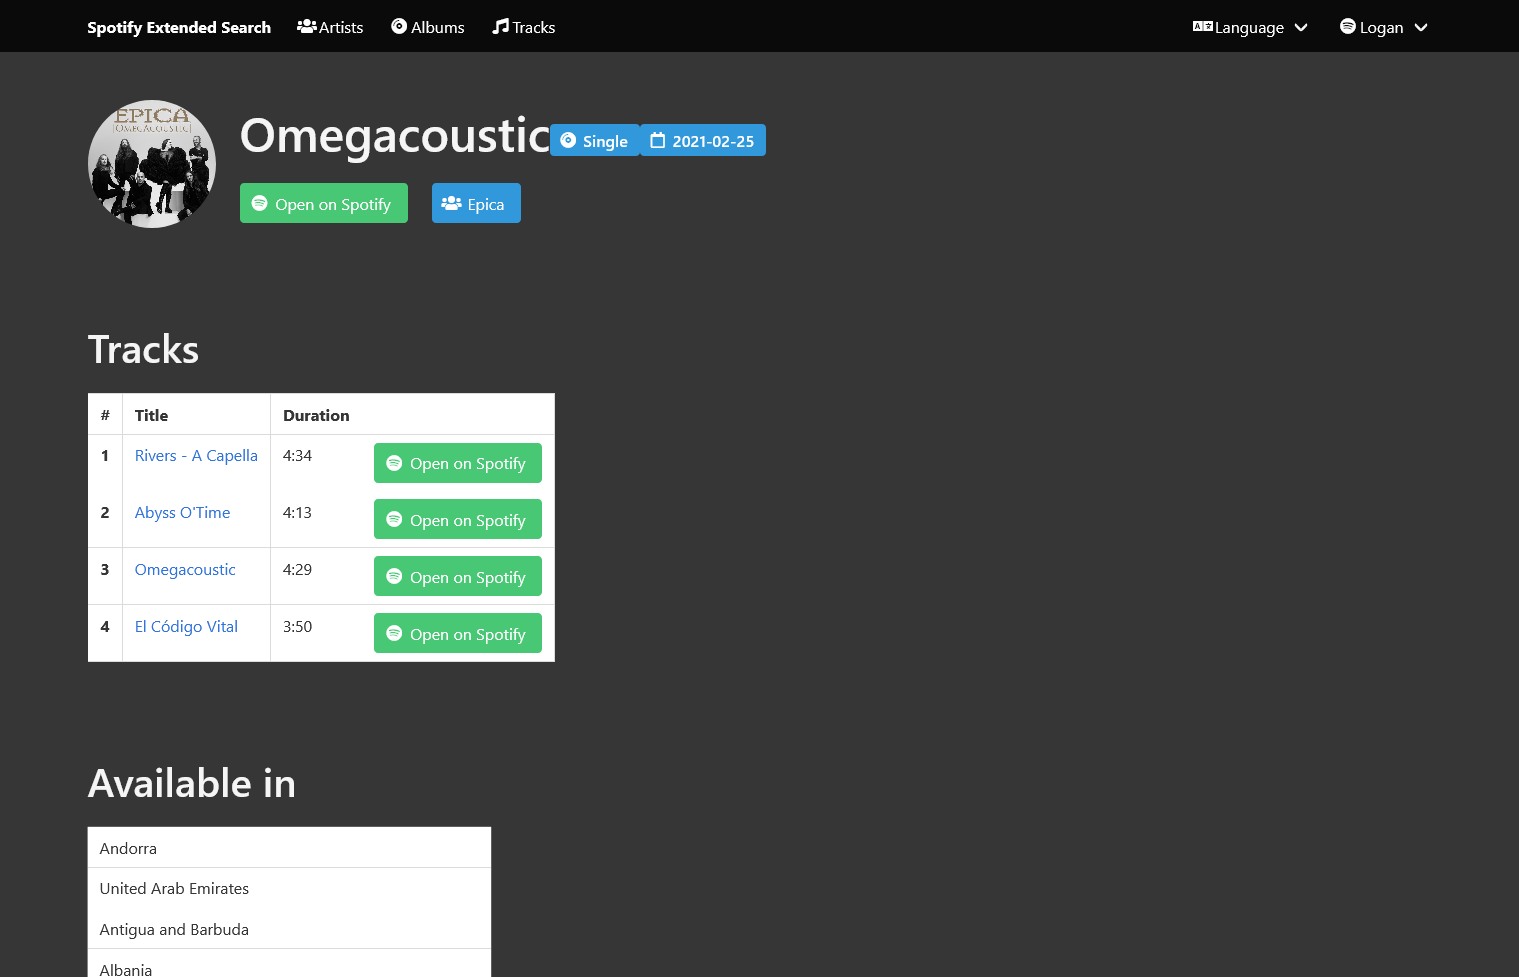
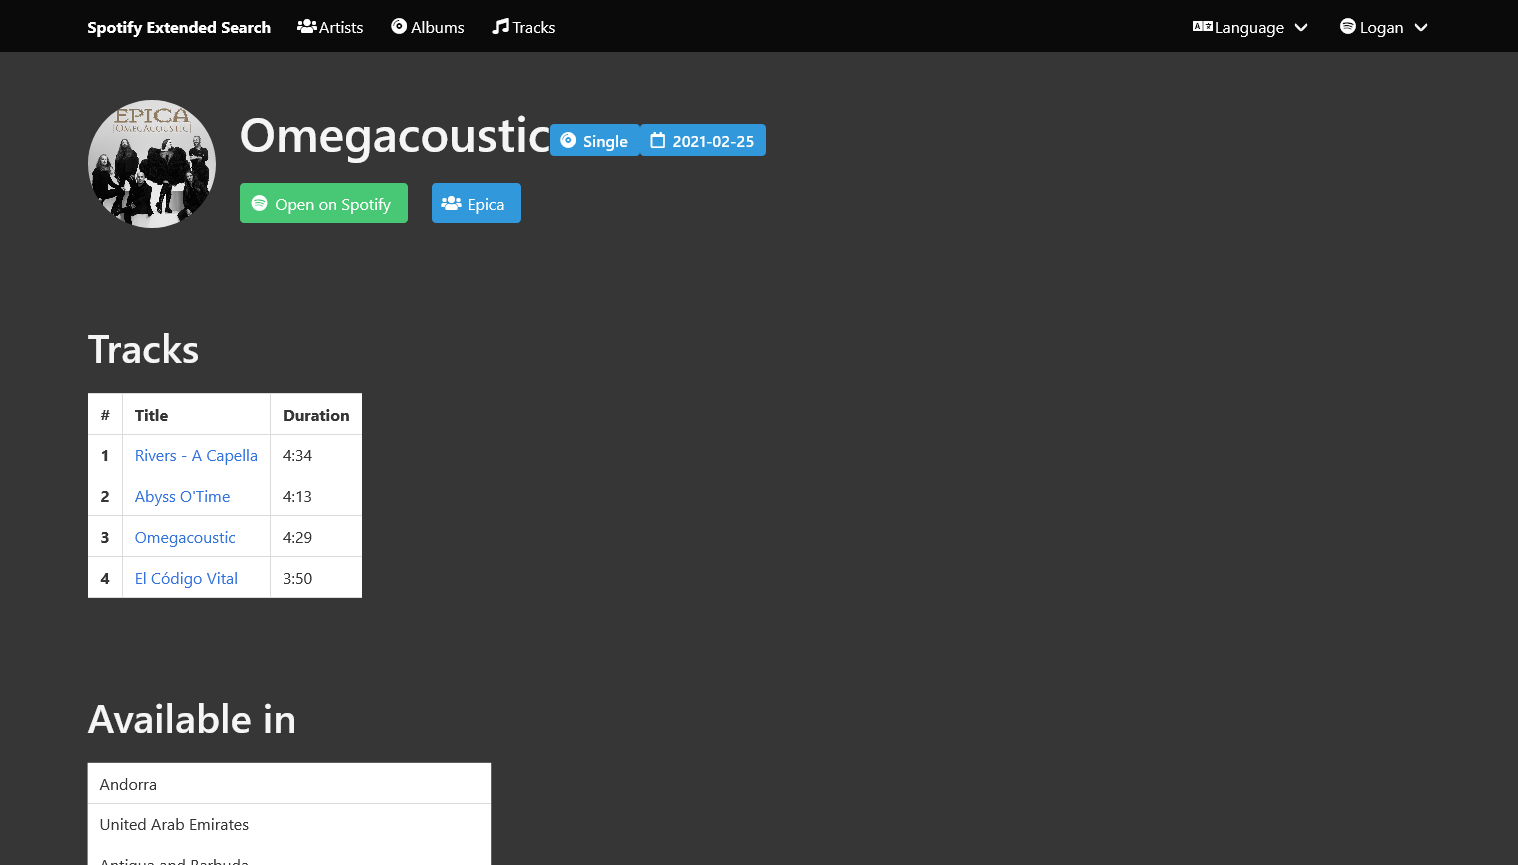
fix: Cards with different height

diff --git a/README.md b/README.md
@@ -111,3 +111,4 @@ docker run -p 3000:3000 -d spotify-extended-search
 - [spotify-web-api-node](https://github.com/thelinmichael/spotify-web-api-node): A Node.js wrapper for Spotify's Web API.
 - [i18next](https://www.i18next.com/): Internationalization framework.
 - [Home page's hero background image](https://www.pexels.com/photo/woman-listening-on-headphones-374703/).
+- [Font Awesome](https://fontawesome.com/): Icons set.
